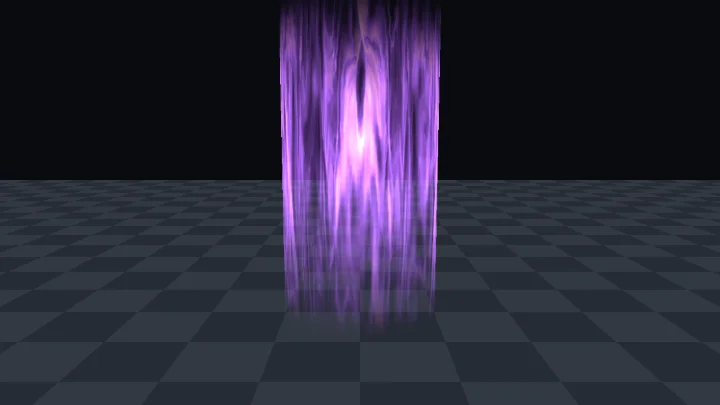
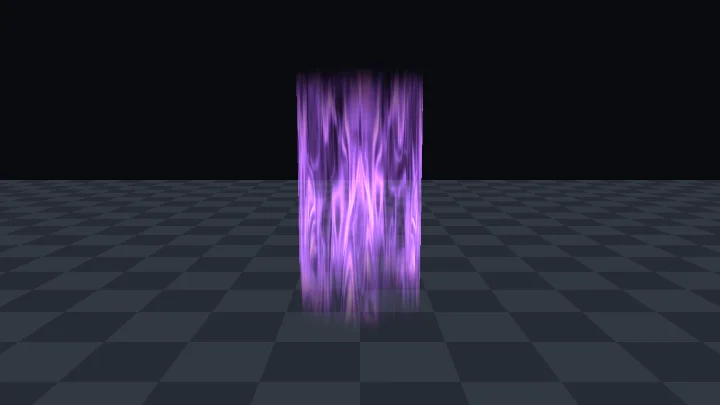
dispatch(scroll-distort-energy-fix): 표본 수정: scroll-distort-energy 리뷰 반영
Dispatch-Job: scroll-distort-energy-fix
Dispatch-Profile: org
Dispatch-Model: claude-opus-5-5

Changed region(s): [[0.3667, 0.0, 0.6111, 0.8]]

diff --git a/web/src/specimens/scroll-distort-energy/meta.ts b/web/src/specimens/scroll-distort-energy/meta.ts
@@ -27,7 +27,7 @@ export const meta: SpecimenMeta = {
     textures: { _NoiseTex: { file: 'ScrollDistortNoise.png', linear: true, repeat: true } },
   },
   params: [
-    { key: '_EnergyColor', label: '에너지 색', type: 'color', default: '#29b6ff', hint: '밝기를 곱하기 전의 색. 밝은 곳은 채널이 넘쳐 흰빛에 가까워진다' },
+    { key: '_EnergyColor', label: '에너지 색', type: 'color', default: '#29b6ff', hint: '밝기를 곱하기 전의 색. 밝은 곳은 큰 채널부터 1 을 넘어 잘리므로 옅은 색이 된다' },
     { key: '_Intensity', label: '밝기 (HDR)', type: 'range', min: 0, max: 6, step: 0.05, default: 2.5, hint: '색에 곱하는 배율. 1 보다 크면 HDR 값이라 URP Bloom 을 켜면 주변으로 번진다' },
     { key: '_ScrollSpeed', label: '흐름 속도', type: 'range', min: 0, max: 3, step: 0.05, default: 0.8, hint: '두 레이어와 왜곡이 함께 빨라진다. 0 이면 무늬가 멈춘다' },
     { key: '_Tiling', label: '무늬 길이 반복', type: 'range', min: 0.5, max: 4, step: 0.05, default: 1.5, hint: '원통 길이 방향으로 텍스처를 몇 번 반복하는지. 클수록 결이 짧고 촘촘하다' },
@@ -46,17 +46,17 @@ export const meta: SpecimenMeta = {
     loops: [{ key: '_DistortStrength', frames: [[0, 0.12], [2.5, 0.35], [4, 0.35], [6.5, 0.01], [8, 0.01], [10, 0.12]], ease: 'inOutSine' }],
   },
   steps: [
-    { n: 1, label: '레이어 하나', body: '노이즈 텍스처 한 장을 UV 에 시간을 더해 위로 흘린다. 같은 무늬가 통째로 미끄러질 뿐 모양은 변하지 않아 컨베이어 벨트처럼 보인다. 텍스처의 결이 세로로 길어 원통 길이 방향으로 뻗는다. 단계 보기는 더하지 않고 값을 그대로 덮어 그리므로, 안쪽 면이 앞면을 가린 세로 경계나 위아래 뚜껑이 함께 보일 수 있다.' },
+    { n: 1, label: '레이어 하나', body: '노이즈 텍스처 한 장을 UV 에 시간을 더해 위로 흘린다. 같은 무늬가 통째로 미끄러질 뿐 모양은 변하지 않아 컨베이어 벨트처럼 보인다. 텍스처의 결이 세로로 길어 원통 길이 방향으로 뻗는다. 단계 보기는 더하지 않고 값을 그대로 그려 앞면만 보인다. 아직 끝단 마스크가 없어 무늬가 원통 위아래 끝까지 꽉 찬다.' },
     { n: 2, label: '두 레이어 겹침', body: '같은 텍스처를 더 잘게, 아래로 흐르게 한 장 더 읽어 곱한다. 두 무늬의 밝은 곳이 겹치는 자리만 남아 무늬가 계속 바뀐다. 다만 결이 아직 곧아 두 장이 기계적으로 엇갈리는 것이 보인다.' },
     { n: 3, label: '왜곡', body: '같은 텍스처를 크게, 느리게 흘려 읽은 값으로 두 레이어의 UV 를 흔든다. 곧던 결이 굽고 일렁여 기운처럼 보인다. 왜곡 세기를 0 으로 내리면 2단계와 같아진다.' },
-    { n: 4, label: '끝단 마스크', body: '원통 길이 방향 위치로 만든 마스크다. 가운데는 희고 위아래 끝으로 갈수록 어두워지며, 양 끝 뚜껑은 검다. 끝단 흐림 길이를 줄이면 어두운 띠가 좁아진다. 이 값을 알파로 내보내 끝에서는 아무것도 더하지 않게 한다.' },
+    { n: 4, label: '끝단 마스크', body: '원통 길이 방향 위치로 만든 마스크다. 가운데는 희고 위아래 끝으로 갈수록 어두워져 맨 끝에서는 검다. 끝단 흐림 길이를 줄이면 어두운 띠가 좁아진다. 이 값을 알파로 내보내 끝에서는 아무것도 더하지 않게 한다. 기본 화면에서 원통 윗끝과 바닥 쪽이 부드럽게 사라지는 것이 이 마스크 덕분이다.' },
   ],
   offNote: '끝단 마스크를 빼먹은 모습. 원통 위아래 끝이 칼로 자른 듯 끊기고, 바닥에 닿은 자리도 각진 테두리가 그대로 보여 빛이 아니라 빛나는 통처럼 보인다.',
   mistakes: [
     { title: '원통 끝이 칼로 자른 듯 끊긴다', body: '알파를 1 로 두거나 끝단 마스크를 곱하지 않으면 메시 경계가 그대로 보인다. 길이 방향 좌표로 `smoothstep` 마스크를 만들어 알파에 곱한다. 뚜껑(캡)이 있는 원통은 뚜껑까지 마스크가 0 이 되도록 UV 대신 오브젝트 높이로 마스크를 만든다.' },
     { title: '둘레 한 줄에 세로 이음매가 생긴다', body: '원통 UV 는 둘레를 한 바퀴 돌아 u 가 1 에서 0 으로 돌아온다. 둘레 방향 타일 수가 정수가 아니면 그 자리에서 무늬가 끊긴다. 둘레 반복은 2, 3 처럼 정수로 둔다. 텍스처 자체도 반복해도 이음매가 없는 것을 쓴다.' },
-    { title: '무늬가 한쪽으로만 밀리고 흔들리지 않는다', body: '노이즈 값(0~1)을 그대로 UV 에 더하면 평균 0.5 만큼 한쪽으로 밀릴 뿐이다. `노이즈 - 0.5` 로 가운데를 0 에 맞춘 뒤 세기를 곱한다. 두 축에 같은 값을 쓰면 대각선으로만 흔들리므로 다른 자리를 읽는다.' },
-    { title: '끝이 끊기거나 줄무늬가 길게 번진다', body: '텍스처의 Wrap Mode 가 Clamp 이면 UV 가 0~1 을 넘는 순간 가장자리 픽셀이 길게 늘어난다. 흘리는 텍스처는 Repeat 로 둔다. 노이즈는 색이 아니라 데이터이므로 sRGB 도 끈다. 켜 두면 값이 어둡게 휘어 왜곡이 한쪽으로 쏠린다.' },
+    { title: '흐름 속도를 스크립트로 바꾸면 무늬가 튄다', body: '흐른 거리를 `_Time.y * 속도` 로 구하므로 실행 중에 속도를 바꾸면 그동안 흐른 시간 전체에 변화량이 곱해져 무늬가 한 번에 건너뛴다. 오래 켜 둘수록 크게 튄다. 속도를 연출로 바꾸려면 C# 에서 `offset += speed * Time.deltaTime` 으로 오프셋을 쌓아 머티리얼에 넘기고, 셰이더는 `_Time.y * 속도` 대신 그 값을 쓴다. 쌓은 값은 레이어 배율(0.7, 0.35)을 곱해도 정수가 되는 주기로 감싼다 (`Mathf.Repeat(offset, 20f)`). Inspector 에서 슬라이더를 끌 때 튀는 것도 같은 이유다.' },
+    { title: '끝이 끊기거나 줄무늬가 길게 번진다', body: '텍스처의 Wrap Mode 가 Clamp 이면 UV 가 0~1 을 넘는 순간 가장자리 픽셀이 길게 늘어난다. 흘리는 텍스처는 Repeat 로 둔다. 노이즈는 색이 아니라 데이터이므로 sRGB 도 끈다. 켜 두면 값이 어둡게 휘어 무늬가 어둡고 가늘어진다.' },
     { title: '빛나지 않고 뿌옇게 덮인다', body: '알파 혼합(`Blend SrcAlpha OneMinusSrcAlpha`)이면 뒤를 가리며 섞여 탁해진다. 발광 효과는 `Blend SrcAlpha One` 으로 더한다. Bloom 으로 번지게 하려면 색이 1 을 넘어야 하므로 밝기 값을 1 보다 크게 둔다.' },
   ],
   unity: {
@@ -64,19 +64,19 @@ export const meta: SpecimenMeta = {
       '`ScrollDistortEnergy.shader`, `core.hlsl`, `ScrollDistortNoise.png` 를 `Assets/Shaders/scroll-distort-energy/` 에 둔다.',
       'Project 창에서 `ScrollDistortNoise.png` 를 고르고 Inspector 에서 Texture Type 은 Default, sRGB (Color Texture) 는 끄고, Wrap Mode 는 Repeat, Filter Mode 는 Bilinear 로 맞춘 뒤 Apply 를 누른다.',
       '셰이더를 우클릭해 Create > Material 로 머티리얼을 만들고, 노이즈 텍스처 칸에 `ScrollDistortNoise.png` 를 넣는다.',
-      'Hierarchy 에서 3D Object > Cylinder 를 만들고 머티리얼을 넣는다. 그림자가 생기지 않게 Mesh Renderer 의 Cast Shadows 를 Off 로 하고, 필요 없으면 Capsule Collider 를 지운다.',
+      'Hierarchy 에서 3D Object > Cylinder 를 만들고 머티리얼을 넣는다. 이 셰이더에는 ShadowCaster 패스가 없어 원래 그림자를 만들지 않으므로, 그림자 계산에서 빼려면 Mesh Renderer 의 Cast Shadows 를 Off 로 둔다. 필요 없으면 Capsule Collider 를 지운다.',
       '빛 번짐을 보려면 Volume 에 Bloom 을 추가하고 카메라의 Post Processing 을 켠다. 레이저처럼 길게 쓰려면 Transform 의 Scale Y 를 키운다.',
     ],
     verify: '원통 위아래 끝이 부드럽게 사라지고, 무늬가 위아래로 엇갈려 흐르며 일렁인다. 왜곡 세기를 0 으로 내리면 결이 곧게 미끄러지고, 끝단 흐림 길이를 0.02 로 내리면 끝이 또렷하게 끊긴다.',
     pitfalls: [
       '이 셰이더에는 `UniversalForward` 패스 하나만 있어 2D Renderer 에서는 그려지지 않는다. 3D 프로젝트용 효과다. 2D 에서 같은 원리를 쓰려면 스프라이트 셰이더로 옮긴다.',
-      '노이즈 텍스처 칸이 비어 있으면 회색(0.5)이 들어가 무늬와 왜곡 없이 고르게 빛나는 통이 된다. sRGB 가 켜져 있으면 왜곡이 한쪽으로 쏠리고 무늬가 어두워진다.',
-      'Bloom 이 없으면 1 을 넘는 색은 채널마다 잘려 흰빛으로 바랠 뿐 번지지 않는다. 카메라의 Post Processing 과 URP Asset 의 HDR 이 켜져 있어야 HDR 값이 Bloom 까지 간다.',
-      '투명 물체라 깊이를 쓰지 않는다. 투명 효과끼리 겹치면 물체 단위로 정렬되므로 겹친 순서가 어긋날 수 있다. 더하기 혼합은 순서와 상관없이 결과가 같아 대개 티가 나지 않는다.',
+      '노이즈 텍스처 칸이 비어 있으면 `linearGrey`(선형 0.5)가 들어가 무늬와 왜곡 없이 고르게 빛나는 통이 된다. 셰이더를 고쳐 기본값을 `"gray"` 로 두면 Linear 프로젝트에서 약 0.21 로 읽혀 희미한 통만 보인다. 텍스처의 sRGB 가 켜져 있으면 무늬가 어둡고 가늘어진다.',
+      'Bloom 과 톤매핑이 없으면 1 을 넘는 색은 채널마다 1 에서 잘려 번지지 않는다. 기본 색은 파랑과 초록만 1 에 닿아 흰빛까지 가지 않고 옅은 하늘색에서 멈춘다. 카메라의 Post Processing 과 URP Asset 의 HDR 이 켜져 있어야 HDR 값이 Bloom 까지 간다.',
+      '투명 물체라 깊이를 쓰지 않는다. 투명 효과끼리 겹치면 물체 단위로 정렬되어 순서가 어긋날 수 있지만 더하기 혼합은 순서와 상관없이 결과가 같아 대개 티가 나지 않는다. 안개도 처리하지 않아 Lighting 창에서 Fog 를 켠 씬에서도 먼 빔이 흐려지지 않고 그대로 밝다. 넓은 공간에 쓰면 래퍼에 안개를 넣는다 (변형 예시 참고).',
       '끝단 마스크와 흐름은 오브젝트 공간 y 축(높이 -1~1)을 따른다. 레이저처럼 눕히려면 Transform 의 Rotation 으로 돌린다. Batching Static 으로 정적 배칭되면 정점이 월드 좌표로 합쳐져 마스크 위치가 어긋나므로 이 물체는 Static 에서 뺀다.',
       '둘레 방향은 메시 UV 의 u 를 쓴다. 높이가 2 가 아니거나 UV 를 다르게 편 메시(직접 만든 리본, 원뿔)는 마스크가 끝에 맞지 않거나 무늬가 옆으로 흐를 수 있다. 다른 메시에 쓸 때는 끝단 마스크가 양 끝에서 0 이 되는지, 무늬가 길이 방향으로 흐르는지 먼저 본다.',
     ],
-    graph: 'Shader Graph 로 옮기려면 Time 노드에 속도를 곱해 Tiling And Offset 노드의 Offset 에 넣은 레이어 두 개(부호를 반대로)를 Multiply 로 곱한다. 왜곡은 노이즈를 한 번 더 읽어 0.5 를 빼고 세기를 곱한 값을 두 레이어의 UV 에 Add 한다. 끝단 마스크는 Position(Object) 의 y 로 Smoothstep 두 개를 곱해 Alpha 에 넣는다. Graph Settings 는 Surface Type Transparent, Blending Mode Additive, Render Face Both 로 둔다.',
+    graph: 'Shader Graph 로 옮기려면 먼저 Position 노드(Space 는 Object)의 y 에 Multiply 0.5, Add 0.5 를 해 높이 -1~1 을 길이 좌표 0~1 로 바꾸고, UV 노드의 x 와 Combine 해 레이어의 기본 좌표로 쓴다. Time 노드에 속도를 곱해 Tiling And Offset 노드의 Offset y 에 넣은 레이어 두 개(부호를 반대로, 둘레 Tiling 은 2 와 3 처럼 정수)를 Multiply 로 곱한다. 왜곡은 노이즈를 한 번 더 읽어 0.5 를 빼고 세기를 곱한 값을 두 레이어의 UV 에 Add 한다. 끝단 마스크는 같은 길이 좌표와 One Minus 한 길이 좌표로 Smoothstep(0~끝단 흐림 길이) 두 개를 만들어 곱하고 Alpha 에 넣는다. Graph Settings 는 Surface Type Transparent, Blending Mode Additive, Render Face Both 로 둔다.',
   },
   prompt: {
     goal: '원통 메시에 반대로 흐르는 노이즈 두 장과 UV 왜곡, 끝단 마스크, HDR 색을 겹쳐 레이저나 마법 기운처럼 빛나는 투명 효과를 넣는다.',
@@ -86,6 +86,7 @@ export const meta: SpecimenMeta = {
       '아래쪽은 흰색, 위쪽은 색이 짙어지게 길이 방향 그라데이션을 넣고 싶다.',
       '바닥에 깔리는 원형 마법진(평면 메시)에 같은 효과를 쓰고 싶다.',
       '스크립트에서 시작점과 끝점을 정하면 그 사이로 빔이 늘어나게 하고 싶다.',
+      'Fog 를 켠 넓은 씬에서 멀리 있는 빔이 안개 속으로 흐려지게 하고 싶다. 더하기 혼합이라 안개 색이 아니라 0 으로 사라져야 하므로 래퍼에서 `MixFogColor(color, half3(0, 0, 0), fogFactor)` 를 쓴다 (`#pragma multi_compile_fog` 와 정점의 `ComputeFogFactor(positionCS.z)` 가 함께 필요하다).',
     ],
   },
   captures: [
